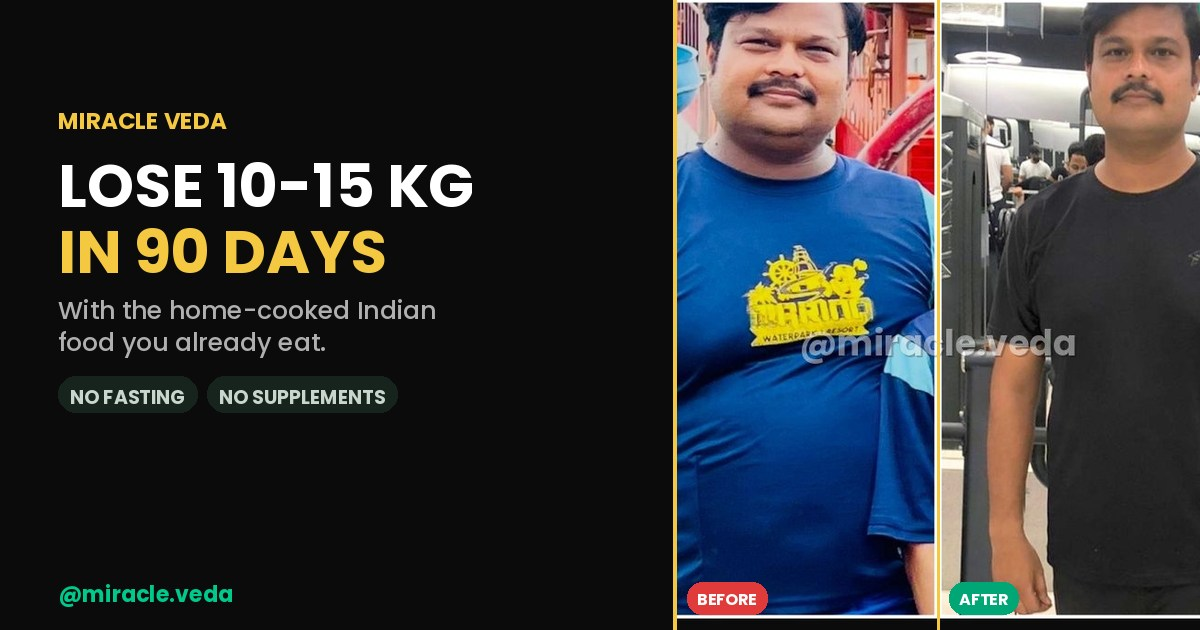
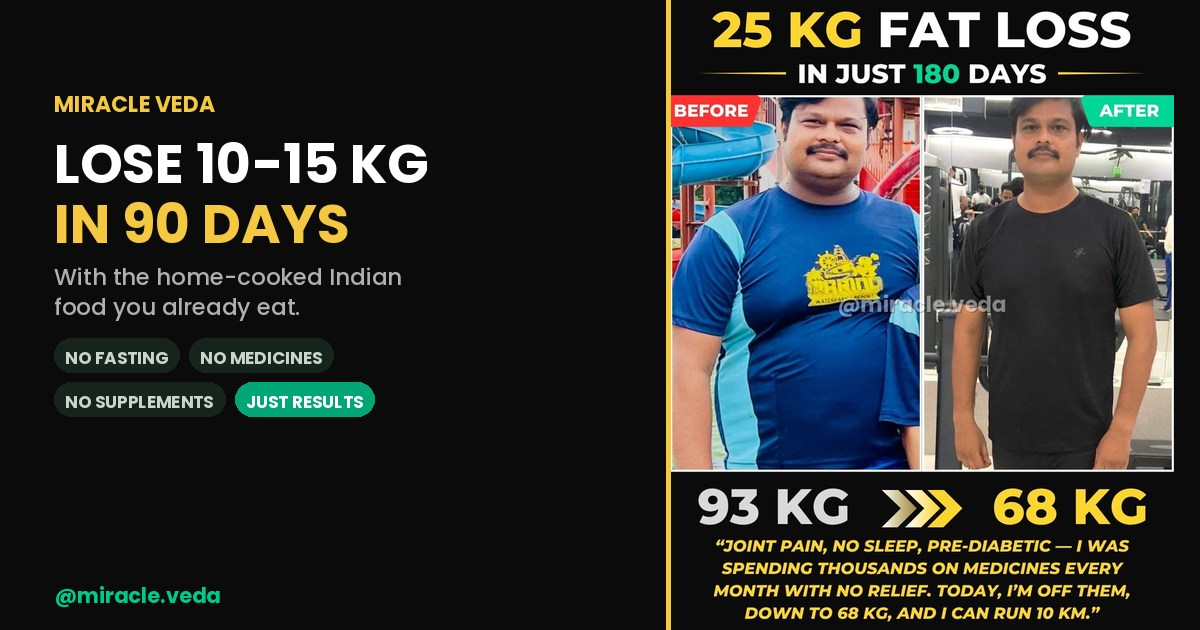
Link preview uses the full client card with the four hero pills; soften the nonsense grid red and bolden its labels; raise Nikitha's watermark off the midsection

diff --git a/index.html b/index.html
@@ -518,15 +518,15 @@ src="https://www.facebook.com/tr?id=3144157445775942&ev=PageView&noscript=1"
         }
 
         .nonsense-item {
-            background: #FFF0F0;
+            background: #FBF6F5;
             padding: 12px 14px;
             border-radius: 8px;
-            border: 2px solid #FF6B6B;
+            border: 1px solid #E8D5D2;
             display: flex;
             align-items: center;
             gap: 10px;
             font-size: 0.88rem;
-            font-weight: 600;
+            font-weight: 800;
             color: #D84315;
             transition: all 0.2s ease;
         }
@@ -539,6 +539,13 @@ src="https://www.facebook.com/tr?id=3144157445775942&ev=PageView&noscript=1"
         .nonsense-item i {
             font-size: 1rem;
             flex-shrink: 0;
+            color: #C25B57;          /* muted, so twenty of them don't shout */
+        }
+
+        .nonsense-item span {
+            color: #3A3A3A;
+            font-weight: 800;
+            letter-spacing: 0.2px;
         }
 
         .positive-features-box {
